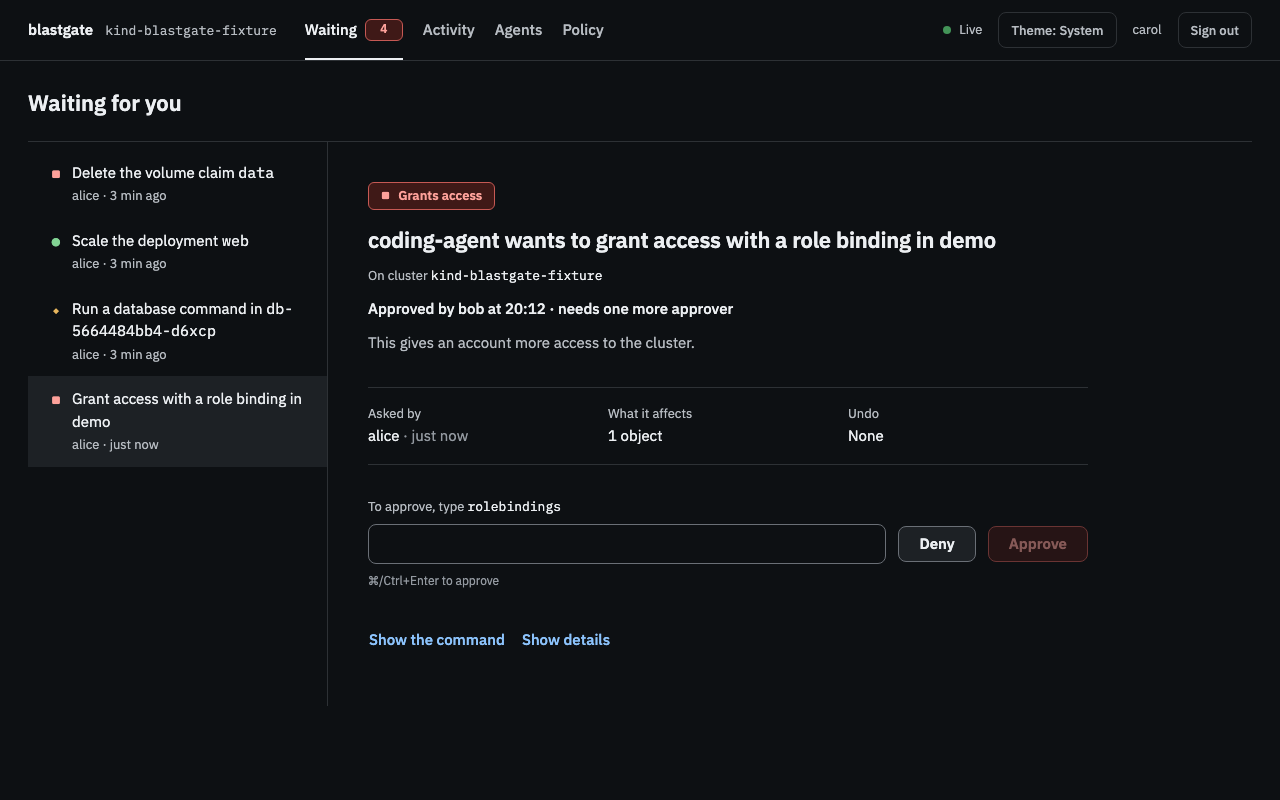
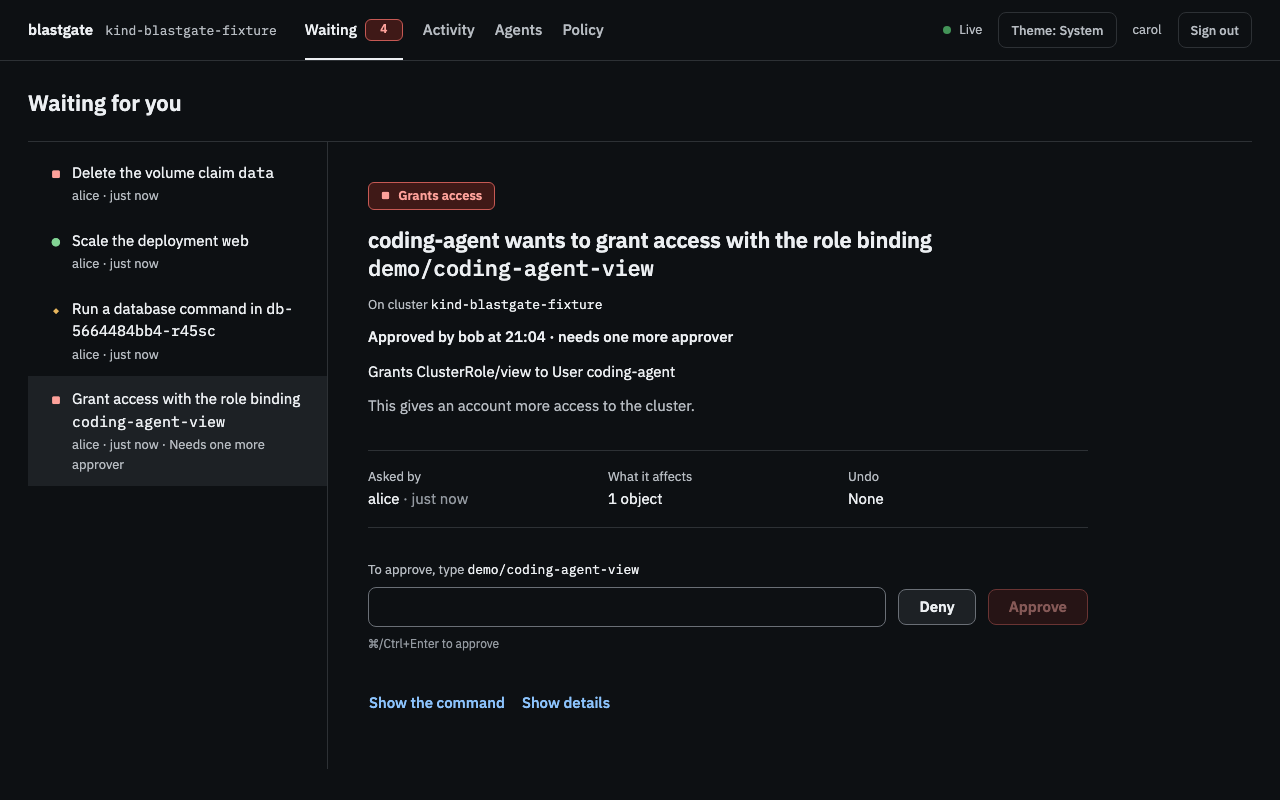
readme, e2e: grant shown, revoked first approver, upgrade notes; retake two-person shot

diff --git a/e2e/phase3_test.go b/e2e/phase3_test.go
@@ -17,6 +17,9 @@ type grantJSON struct {
 	DecidedBy      string `json:"decided_by"`
 	NeedsApprovers int    `json:"needs_approvers"`
 	FirstApprover  string `json:"first_approver"`
+	Name           string `json:"name"`
+	TargetName     string `json:"target_name"`
+	Grant          string `json:"grant"`
 }
 
 // letAliceGrantView lets alice create cluster role bindings to the view
@@ -74,6 +77,14 @@ func TestAccessGrantNeedsTwoApprovers(t *testing.T) {
 
 	bob := g.admin(t)
 	var ap grantJSON
+	// The approvers see the binding: its name (a create carries none in
+	// its path, so the console's typed target comes from target_name) and
+	// what it grants, read from the request kubectl sent.
+	if code := bob.do(t, http.MethodGet, "/api/approvals/"+id, nil, &ap); code != http.StatusOK || ap.Name != "" ||
+		ap.TargetName != grant || ap.Grant != "binds ClusterRole/view to User coding-agent" || ap.NeedsApprovers != 2 || ap.Status != "pending" {
+		t.Fatalf("the held grant: %d %+v, want target_name %q and the binding shown", code, ap, grant)
+	}
+	ap = grantJSON{}
 	if code := bob.do(t, http.MethodPost, "/api/approvals/"+id+"/approve", nil, &ap); code != http.StatusOK ||
 		ap.Status != "partially_approved" || ap.FirstApprover != "bob" || ap.NeedsApprovers != 2 {
 		t.Fatalf("bob's approval: %d %+v, want 200 partially_approved, first approver bob, needs 2", code, ap)
@@ -108,6 +119,67 @@ func TestAccessGrantNeedsTwoApprovers(t *testing.T) {
 		t.Fatalf("carol's approval: %d %+v, want 200 approved, decided by carol, first approver bob", code, ap)
 	}
 
+	must(t)(kubectl(t, kc, nil, "", create...))
+	must(t)(kubectl(t, adminKC, nil, "", "get", "clusterrolebinding", grant))
+}
+
+// approverID reads an approver's id from `blastgate approver list`.
+func approverID(t *testing.T, g *gate, name string) string {
+	t.Helper()
+	out, err := g.run(t, "approver", "list")
+	if err != nil {
+		t.Fatalf("approver list: %v", err)
+	}
+	for _, line := range strings.Split(out, "\n") {
+		f := strings.Fields(line)
+		if len(f) >= 4 && f[1] == name && f[len(f)-1] == "active" {
+			return f[0]
+		}
+	}
+	t.Fatalf("no active approver %q in:\n%s", name, out)
+	return ""
+}
+
+// A first approval counts only while its approver is live (ruling
+// E-R15a): once erin is revoked, frank's approval takes her place as the
+// first and releases nothing; grace, a third live approver, releases it.
+func TestRevokedFirstApproverIsReplaced(t *testing.T) {
+	letAliceGrantView(t)
+	g := start(t)
+	kc := g.session(t, "alice")
+	const grant = "e2e-revoked-first"
+	t.Cleanup(func() {
+		kubectl(t, adminKC, nil, "", "delete", "clusterrolebinding", grant, "--ignore-not-found")
+	})
+	create := []string{"create", "clusterrolebinding", grant, "--clusterrole=view", "--user=coding-agent"}
+	out, err := kubectl(t, kc, nil, "", create...)
+	m := ticket.FindStringSubmatch(out)
+	if err == nil || m == nil {
+		t.Fatalf("the cluster role binding was not held:\n%s", out)
+	}
+	id := m[1]
+	path := "/api/approvals/" + id + "/approve"
+
+	erin, frank, grace := g.approver(t, "erin"), g.approver(t, "frank"), g.approver(t, "grace")
+	var ap grantJSON
+	if code := erin.do(t, http.MethodPost, path, nil, &ap); code != http.StatusOK || ap.Status != "partially_approved" || ap.FirstApprover != "erin" {
+		t.Fatalf("erin's approval: %d %+v", code, ap)
+	}
+	if _, err := g.run(t, "approver", "revoke", approverID(t, g, "erin")); err != nil {
+		t.Fatalf("approver revoke: %v", err)
+	}
+	ap = grantJSON{}
+	if code := frank.do(t, http.MethodPost, path, nil, &ap); code != http.StatusOK || ap.Status != "partially_approved" || ap.FirstApprover != "frank" {
+		t.Fatalf("frank after erin's revocation: %d %+v, want partially_approved with frank first", code, ap)
+	}
+	out, err = kubectl(t, kc, nil, "", create...)
+	if m := ticket.FindStringSubmatch(out); err == nil || m == nil || m[1] != id {
+		t.Fatalf("the retry after a revoked first approval and one live one was not held on %s:\n%s", id, out)
+	}
+	ap = grantJSON{}
+	if code := grace.do(t, http.MethodPost, path, nil, &ap); code != http.StatusOK || ap.Status != "approved" || ap.FirstApprover != "frank" || ap.DecidedBy != "grace" {
+		t.Fatalf("grace's approval: %d %+v, want approved by grace after frank", code, ap)
+	}
 	must(t)(kubectl(t, kc, nil, "", create...))
 	must(t)(kubectl(t, adminKC, nil, "", "get", "clusterrolebinding", grant))
 }

diff --git a/README.md b/README.md
@@ -294,8 +294,10 @@ zeros mean nothing was measured, not that nothing happens.
 Nobody approves a request made on their own behalf. The server refuses it, with 403
 "you can't approve a request made on your behalf", when the approver's name is the
 request's human, or the request's human is one linked to the approver with `approver new
---human`. Both match exactly, case included. The console disables *Approve* for such a
-request and says why. *Deny* is never blocked. `blastgate approve --by` checks the name it
+--human`. Both match exactly, case included. When the approver's own name is the
+request's human, the console disables *Approve* and says why; for a linked human the
+console cannot tell beforehand (it does not know the links), so *Approve* stays on offer
+and the server's 403 is shown as the reason instead. *Deny* is never blocked. `blastgate approve --by` checks the name it
 is given; linked humans belong to console accounts.
 
 The decision is recorded under the name of the signed-in approver, never a name from
@@ -306,16 +308,32 @@ the request. The agent's held request is released (or refused) exactly as with
 
 ### Access grants need two people
 
-A request that changes who may act in the cluster (any RBAC write, a service-account
-token, a CSR approval; class `AUTHORITY`, tagged *Grants access*) needs two approvers,
-each signed in to the console with their own account:
+A request that changes who may act in the cluster (an RBAC create, update or patch, a
+service-account token, a CSR approval; class `AUTHORITY`, tagged *Grants access*) needs
+two approvers, each signed in to the console with their own account. Deleting an RBAC
+object is scored like any other delete and needs one approver. Other ways to gain power
+are not classed as access grants: creating a service-account token Secret, or a pod that
+runs as a powerful service account, is held or not by your policy like any other write.
+
+The panel says what is granted, read from the request itself: "Grants ClusterRole/view to
+User coding-agent" for a binding, "Allows get,list on pods" for a role. That text is part
+of the measured impact, so the approval covers exactly what was shown. The typed target is
+the binding's or role's name, even for a create whose path carries no name. A body
+blastgate cannot read (no name, `generateName`, neither JSON nor protobuf, or any patch) still needs two
+people, and reads *Impact unknown*.
 
 - The first approval records who gave it and releases nothing: the request's status is
   `partially_approved`, it stays in Waiting, the agent's retry is held on the same ticket, and the panel says
   "Approved by bob at 14:02 · needs one more approver".
-- The second must come from a different account, with a different name. The same account
-  approving twice gets 409 "you already approved this; it needs a second person", and
-  for that person the console disables *Approve* and says so.
+- Until then Waiting and the panel say "Needs two approvers".
+- The second must come from a different account, with a different name (compared without
+  case). The same account approving twice gets 409 "you already approved this; it needs a
+  second person", and for that person the console disables *Approve* and says so.
+- A first approval counts only while its approver's account is live. Revoke the account
+  (say its token was stolen) and the next approval takes its place as the first: it
+  releases nothing, and a third, live approver is needed. Whoever loses a race to give the
+  first approval is told someone else got there first; the request stays, and they can
+  give the second.
 - Each of the two must have signed in within `BLASTGATE_AUTHORITY_REAUTH` (15 minutes by
   default) of approving. Otherwise the server answers 403 "sign in again to approve
   access grants", and the console offers *Sign in again*, which signs out and comes back
@@ -329,7 +347,7 @@ each signed in to the console with their own account:
 The rule fails closed: a stored impact whose class blastgate does not know, or that no
 longer matches its digest, needs two people too.
 
-![A partially approved access grant, seen by a second approver: approved by bob, needs one more approver](assets/ui-two-person.png)
+![A partially approved access grant, seen by a second approver: the role binding demo/coding-agent-view, approved by bob, needs one more approver, grants ClusterRole/view to User coding-agent](assets/ui-two-person.png)
 
 ### Details
 
@@ -726,6 +744,16 @@ A session for anyone else is then refused by the API server itself.
   [Writes that go around blastgate](#writes-that-go-around-blastgate)).
 - **Self-approval matching is exact.** An approver named `Bob` is not the human `bob`,
   and a linked human must be spelled exactly as sessions record it.
+- **Two approvers means two accounts.** blastgate cannot tell two accounts held by one
+  person from two people, and anyone with access to the host (the data directory and the
+  signing key) can create accounts with `approver new`. Treat host access as the power to
+  approve anything.
+- **Run one blastgate version against a database at a time.** The upgrade to v0.4.0
+  migrates the database in place. A v0.3.0 binary started on a migrated database reads
+  `partially_approved` as a final state and would never let that request finish. An
+  access grant approved by one person before the upgrade still releases on its retry until
+  its token lapses (15 minutes by default); one still pending at the upgrade needs two
+  people.
 
 ## Verified
 
@@ -744,9 +772,12 @@ with `approver new`: approve and deny from the API release and refuse kubectl's 
 revoking a session from the API stops it, replay from the API reports the change, the
 stream delivers a held request over HTTP/1.1 and HTTP/2, a write with the admin kubeconfig
 is recorded as a bypass, and neither a write through blastgate nor a controller's writes
-are. The approval-rule scenarios: a cluster role binding is held as an access grant, bob's
+are. The approval-rule scenarios: a cluster role binding is held as an access grant, the
+approvers are shown its name and "binds ClusterRole/view to User coding-agent", bob's
 approval leaves kubectl's retry held on the same ticket, bob approving again gets 409, the
-CLI cannot approve it, and carol's approval releases the retry; an approver linked to alice
+CLI cannot approve it, and carol's approval releases the retry; a first approver revoked
+with `approver revoke` no longer counts, so the next approval only replaces them and a
+third approver releases the retry; an approver linked to alice
 with `--human alice` is refused 403 on alice's request and can still deny it; and `/api/me`
 and the login answer name the upstream kubeconfig's context, or `BLASTGATE_CLUSTER_NAME`
 when set. The suite deletes the claim and changes the demo workloads, so run
